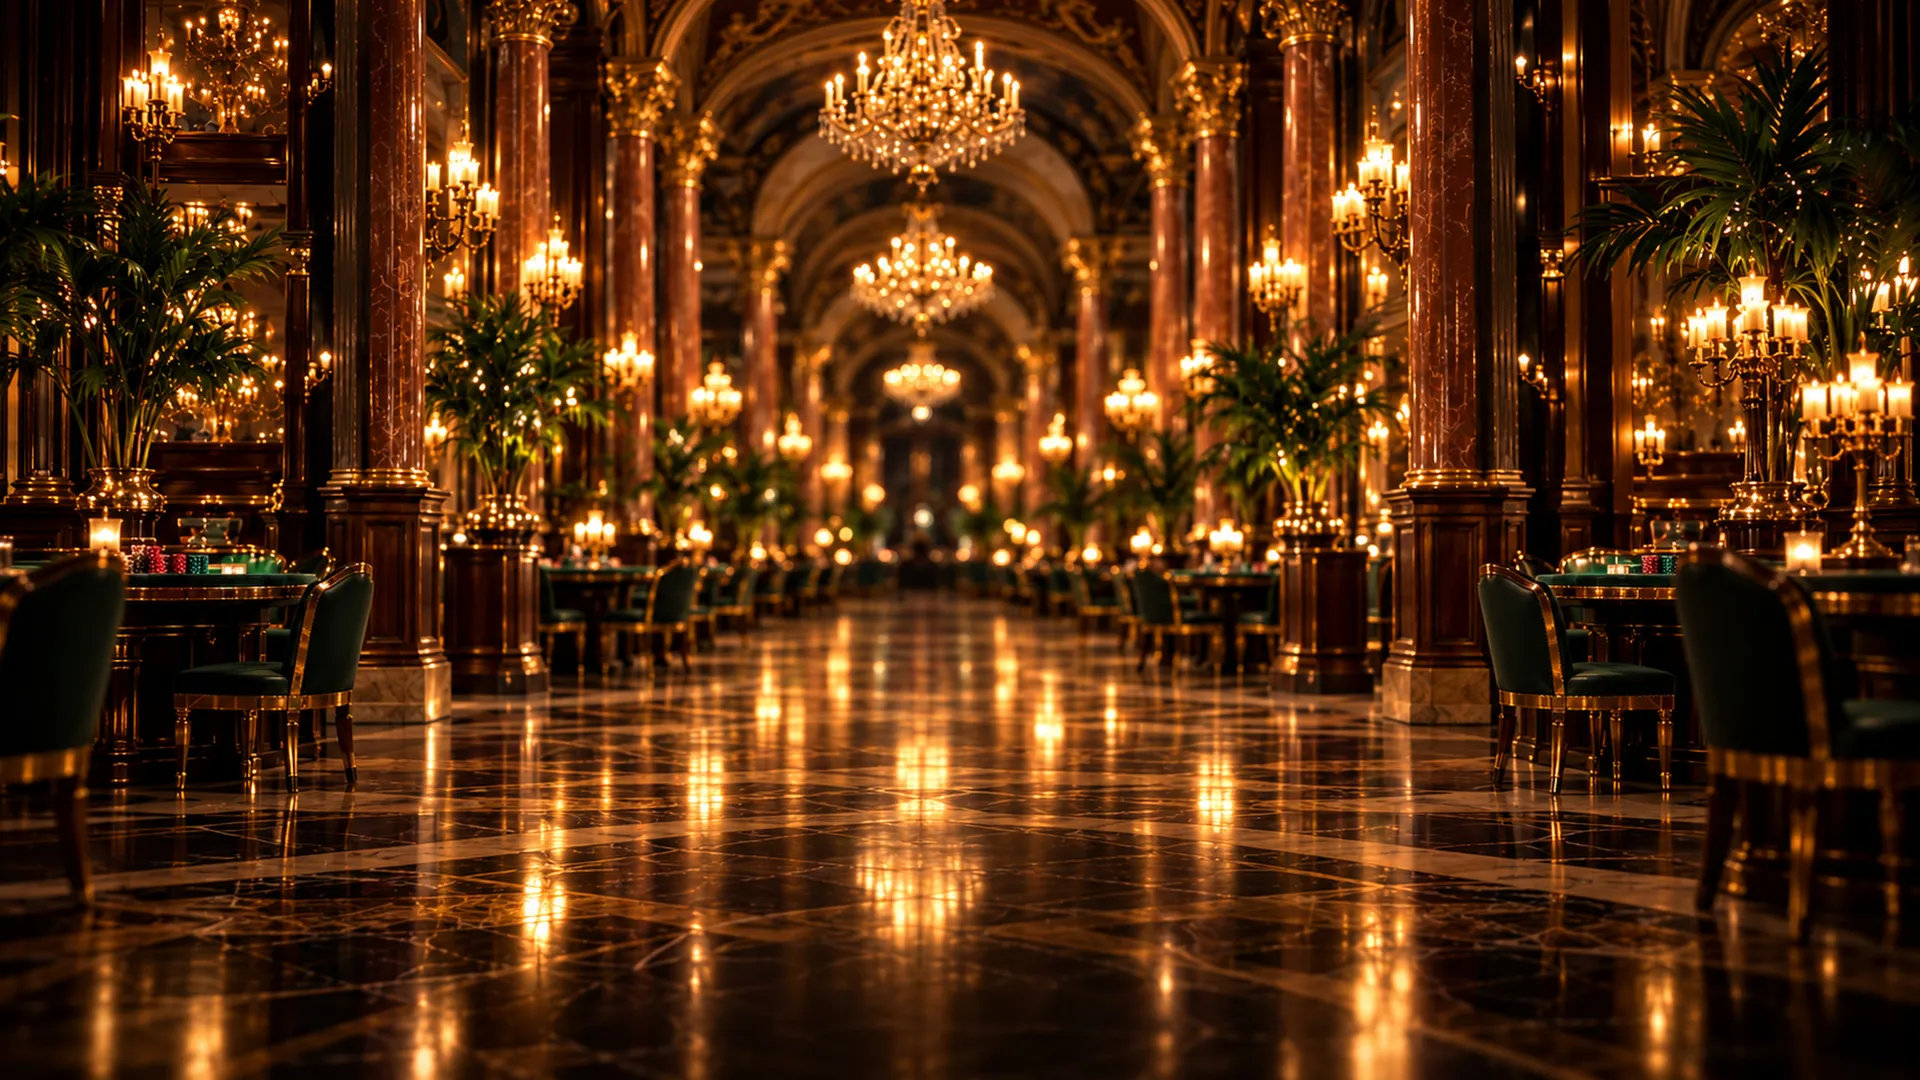
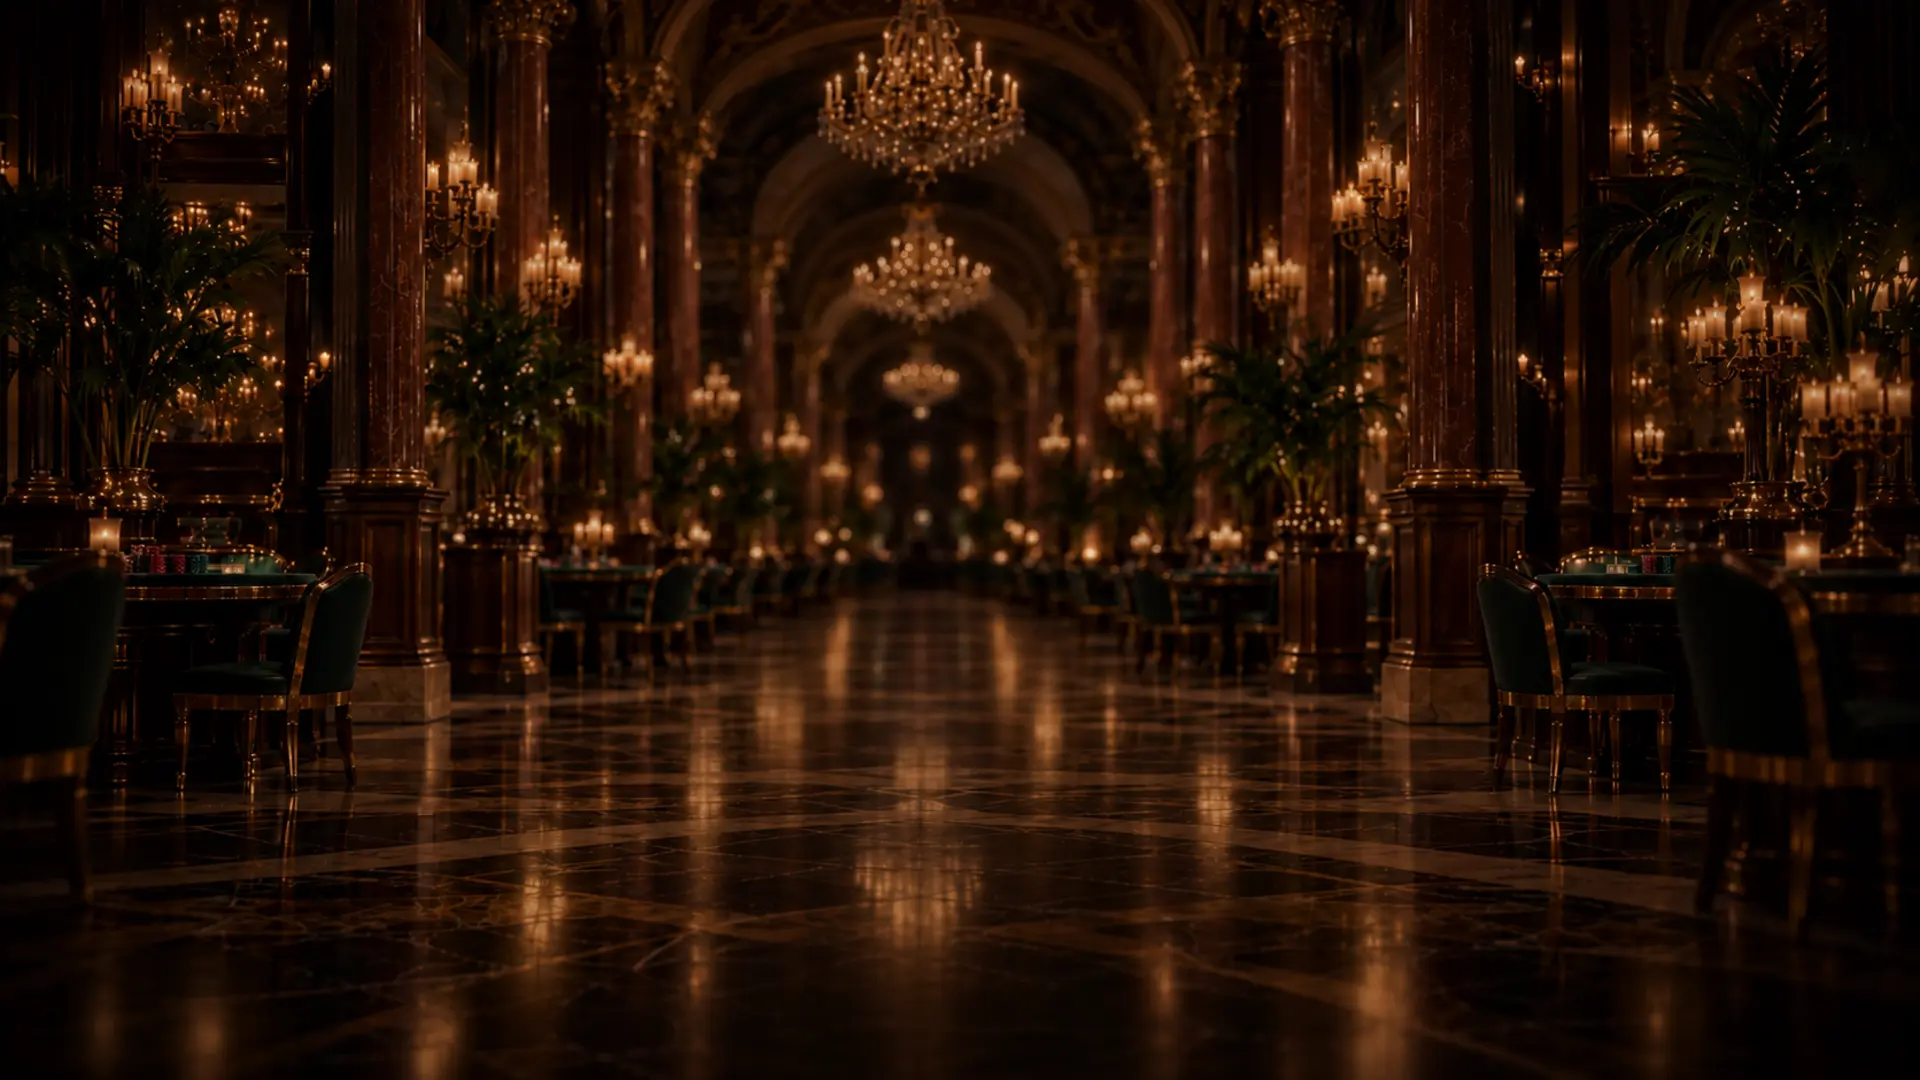
Lobby: darker, calmer background
Claude-Session: https://claude.ai/code/session_01GE6RT25nv3ZuWQjpEEGMDW

diff --git a/docs/lobby.css b/docs/lobby.css
@@ -243,8 +243,8 @@ body.lbfull #lobbyView .lb li .av{width:40px;height:40px}
 #lobbyView .notice{overflow:hidden}
 @media (max-height:700px){#lobbyView .notice{font-size:12px;line-height:1.4;padding-top:10px;padding-bottom:10px}#lobbyView .notice b{font-size:20px;margin-bottom:2px}#lobbyView .notice b::after{margin-top:4px}}
 /* ===== lobby pack (approved art) ===== */
-body:has(#lobbyView:not([hidden])){background-image:url(img/lobby2/bg_hall_mobile.webp)!important}
-@media (min-width:800px){body:has(#lobbyView:not([hidden])){background-image:url(img/lobby2/bg_hall_desktop.webp)!important}}
+body:has(#lobbyView:not([hidden])){background-image:url(img/lobby2/bg_hall_mobile.webp?v=2)!important}
+@media (min-width:800px){body:has(#lobbyView:not([hidden])){background-image:url(img/lobby2/bg_hall_desktop.webp?v=2)!important}}
 body:has(#lobbyView:not([hidden]))::before{background:linear-gradient(180deg,rgba(11,8,6,.25),rgba(11,8,6,.45) 45%,rgba(11,8,6,.7))!important}
 #lobbyView .gfr::after{inset:-2px;border:22px solid transparent;border-image:url(img/lobby2/frame_gold.png) 62 / 22px stretch}
 #lobbyView .notice.gfr::after,#lobbyView .lb.gfr::after,#lobbyView .lx-jobs.gfr::after{border-image:url(img/lobby2/frame_gold_wide.png) 70 120 / 22px 30px stretch}

diff --git a/docs/admin.html b/docs/admin.html
@@ -8,7 +8,7 @@
 <link rel="icon" href="img/brand/favicon.png?v=2">
 <link rel="stylesheet" href="https://fonts.googleapis.com/css2?family=Heebo:wght@400;500;700&family=Frank+Ruhl+Libre:wght@500;700&family=Inter:wght@400;500;700&display=swap">
 <link rel="stylesheet" href="styles.css?v=9">
-<link rel="stylesheet" href="lobby.css?v=39">
+<link rel="stylesheet" href="lobby.css?v=40">
 <link rel="stylesheet" href="admin.css?v=1">
 <script src="https://cdn.jsdelivr.net/npm/@supabase/supabase-js@2.45.4/dist/umd/supabase.min.js"></script>
 <script src="config.js?v=8"></script>

diff --git a/docs/index.html b/docs/index.html
@@ -8,7 +8,7 @@
 <link rel="stylesheet" href="https://fonts.googleapis.com/css2?family=Heebo:wght@400;500;700&family=Frank+Ruhl+Libre:wght@500;700&family=Inter:wght@400;500;700&display=swap">
 <link rel="stylesheet" href="styles.css?v=9">
 <link rel="stylesheet" href="gate.css?v=11">
-<link rel="stylesheet" href="lobby.css?v=64">
+<link rel="stylesheet" href="lobby.css?v=65">
 <link rel="icon" href="img/brand/favicon.png?v=2">
 <link rel="apple-touch-icon" href="img/brand/apple-touch-icon.png?v=2">
 <link rel="preload" as="image" href="img/brand/emblem.webp">
